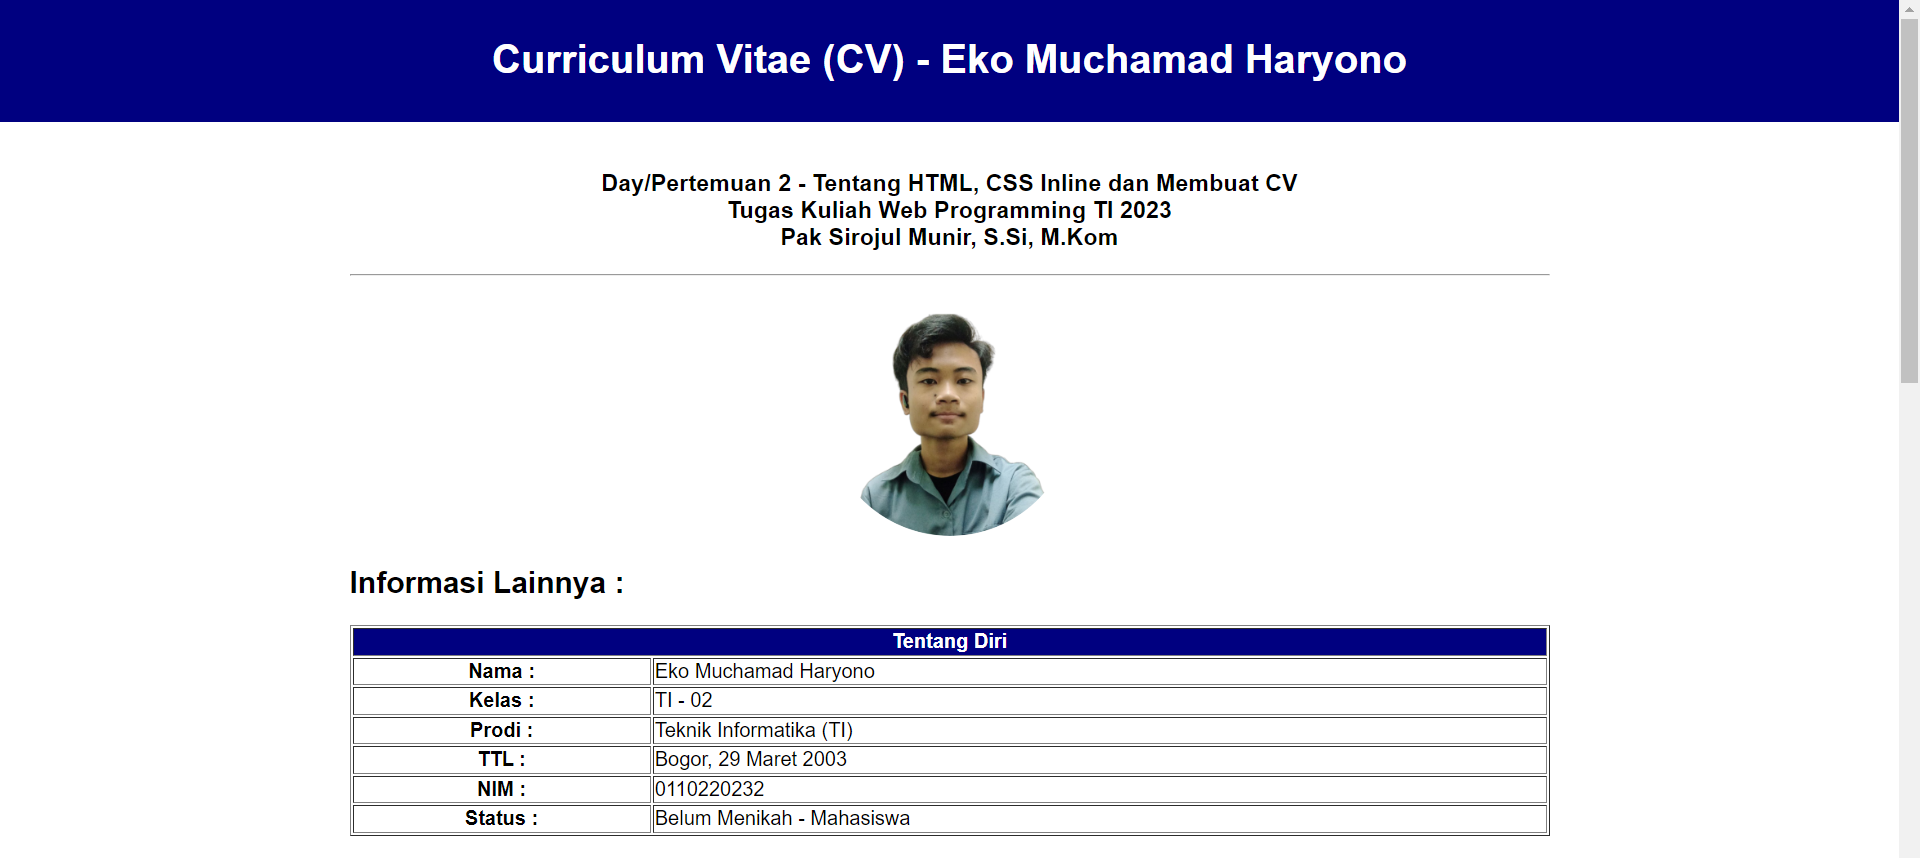
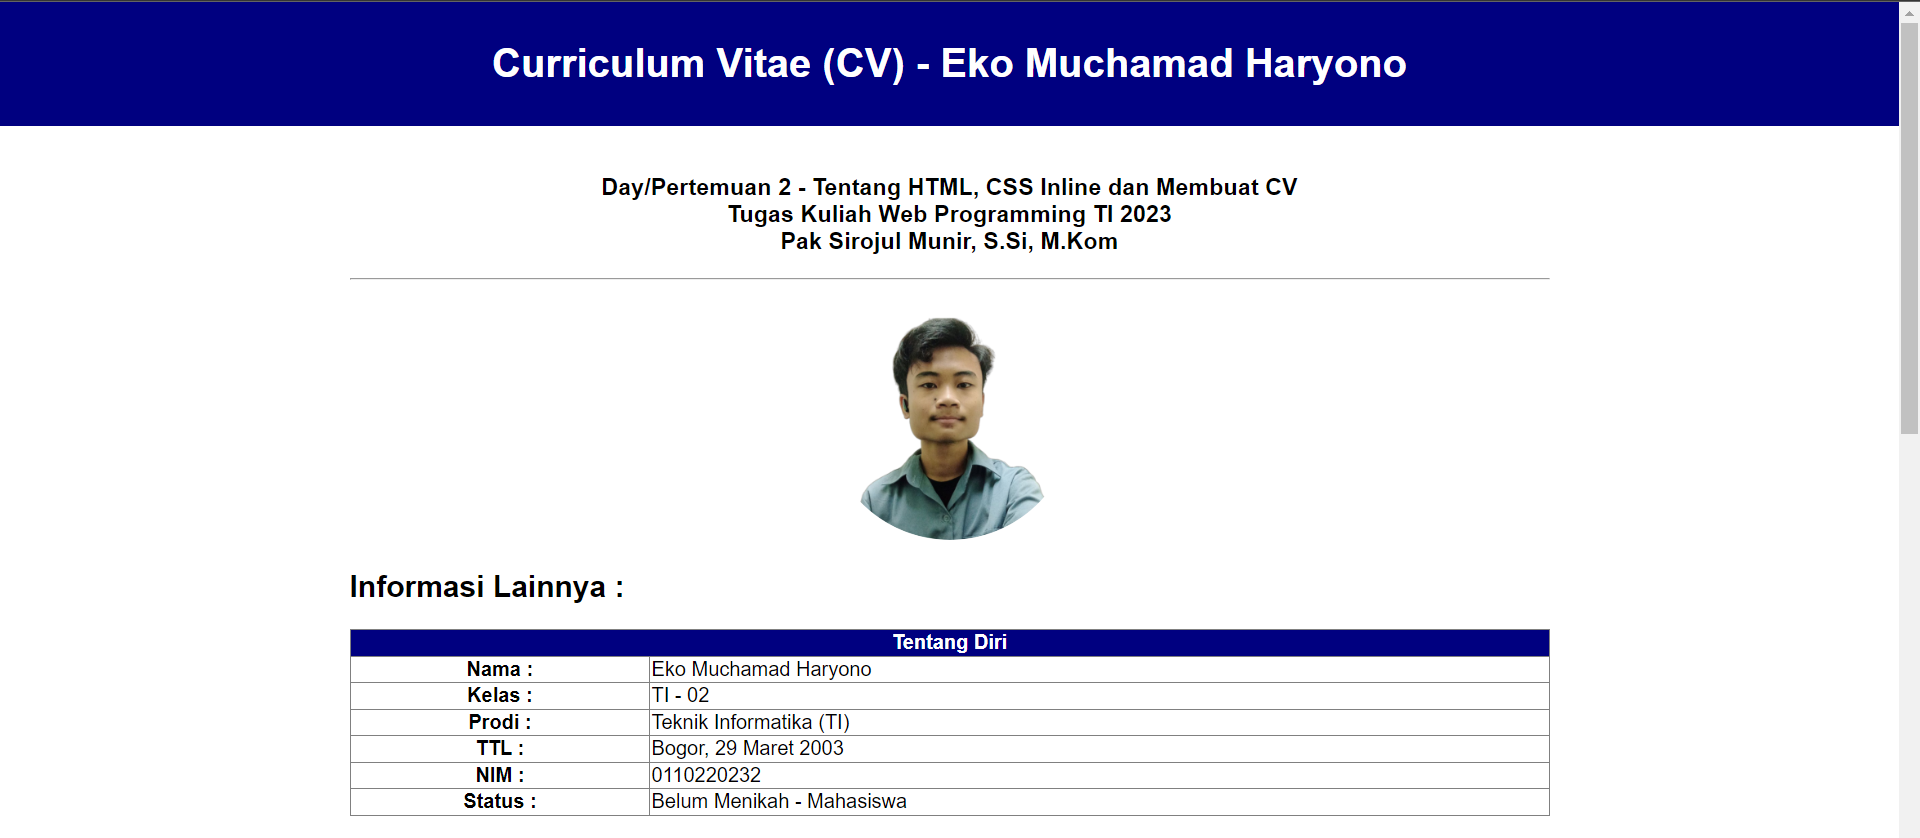
3.0. upload tugas praktikum_03, form pizza dan form produk dan readme.md

diff --git a/Praktikum_03/form_produk/hasil-produk.html b/Praktikum_03/form_produk/hasil-produk.html
@@ -1,21 +1,23 @@
 <!DOCTYPE html>
 <html lang="en">
-<head>
-    <meta charset="UTF-8">
-    <meta name="viewport" content="width=device-width, initial-scale=1.0">
-    <title>Hasil Pemesanan Barang - Eko Muchamad Haryono</title>
-</head>
-<body>
-    <div style="background-color: #333; overflow: hidden;">
-        <a href="#" style="float: left; display: block; color: white; text-align: center; padding: 14px 16px; text-decoration: none;">Home</a>
-        <a href="#" style="float: left; display: block; color: white; text-align: center; padding: 14px 16px; text-decoration: none;">Generate Link</a>
-        <a href="#" style="float: left; display: block; color: white; text-align: center; padding: 14px 16px; text-decoration: none;">Transaction History</a>
-        <a href="#" style="float: left; display: block; color: white; text-align: center; padding: 14px 16px; text-decoration: none;">Policy</a>
-        <a href="#" style="float: left; display: block; color: white; text-align: center; padding: 14px 16px; text-decoration: none;">Logout</a>
-    </div>
+    <head>
+        <meta charset="UTF-8">
+        <meta name="viewport" content="width=device-width, initial-scale=1.0">
+        <title>Hasil Pemesanan Barang - Eko Muchamad Haryono</title>
+    </head>
+    <body>
+        <div style="background-color: #333; overflow: hidden;">
+            <a href="#" style="float: left; display: block; color: white; text-align: center; padding: 14px 16px; text-decoration: none;">Home</a>
+            <a href="#" style="float: left; display: block; color: white; text-align: center; padding: 14px 16px; text-decoration: none;">Generate Link</a>
+            <a href="#" style="float: left; display: block; color: white; text-align: center; padding: 14px 16px; text-decoration: none;">Transaction History</a>
+            <a href="#" style="float: left; display: block; color: white; text-align: center; padding: 14px 16px; text-decoration: none;">Policy</a>
+            <a href="#" style="float: left; display: block; color: white; text-align: center; padding: 14px 16px; text-decoration: none;">Logout</a>
+        </div>
 
-    <div style="padding: 20px;">
-        
-    </div>
-</body>
+        <div style="padding: 20px;">
+            
+        </div>
+
+    </body>
+    
 </html>

diff --git a/Praktikum_03/form_pizza/hasil-pizza.html b/Praktikum_03/form_pizza/hasil-pizza.html
@@ -12,17 +12,12 @@
     <meta name="viewport" content="width=device-width, initial-scale=1.0">
     <title>Hasil Pizza</title>
 </head>
-<body style="background-color: #faf3e3;">
+<body style="background-color: #faf3e3; color: black; font-family: Arial;">
     <h1 align="center">THANK YOU</h1>
-    <hr>
+    <hr  style="border:1.5px solid #5499ff;">
     <p>Thank you for ordering from Black Goose Bistro. We have received the following information about your order:</p>
-    <table>
-        <thead>
-            <tr>
-                <th colspan="2" style="color: #bc7261";>Your Information</th>
-            </tr>
-        </thead>
-        <tbody>
+    <table style="margin-left: 50px;">
+        <h3 style="color: #bc7261; margin-right: 50px;">Your Information</h3>
             <tr>
                 <td><b>Name</b></td>
                 <td>: Jennifer Robbins</td>
@@ -39,16 +34,10 @@
                 <td><b>Email</b></td>
                 <td>: jen@gmail.com</td>
             </tr>
-        </tbody>
     </table>
     <p><b>Delivery Instructions:</b> Ring the middle buzzer, if nobody answers, text me.</p>
-    <table>
-        <thead>
-            <tr>
-                <th colspan="2" style="color: #bc7261";>Your Information</th>
-            </tr>
-        </thead>
-        <tbody>
+    <table style="margin-left: 50px;">
+            <h3 style="color: #bc7261;">Your Information</h3>
             <tr>
                 <td><b>Crust</b></td>
                 <td>: White</td>
@@ -63,7 +52,7 @@
             </tr>
         </tbody>
     </table>
-    <hr>
+    <hr style="border:1.5px solid #bc7261;"">
     <p>This site is for educational purposes only. No pizzas will be delivered.</p>
 </body>
 </html>

diff --git a/Praktikum_03/form_pizza/form-pizza.html b/Praktikum_03/form_pizza/form-pizza.html
@@ -10,7 +10,7 @@
     <meta charset="UTF-8">
     <meta http-equiv="X-UA-Compatible" content="IE=edge">
     <meta name="viewport" content="width=device-width, initial-scale=1.0">
-    <title>Form Pemesanan Pizza</title>
+    <title>Form Pizza</title>
 </head>
 <body>
     <h1>Black Goose Bistro | Pizza-on-Demand</h1>
@@ -106,7 +106,7 @@
                 
                 <h4>Number</h4>
                 <label for="count">How many Pizzas: </label>
-                <input type="number" id="count" style="width: 3s5px;">
+                <input type="number" id="count" style="width: 35px;">
                     <br>
                     <br>
                 <button type="submit">Bring me a Pizza!</button>

diff --git a/readme.md b/readme.md
@@ -26,17 +26,17 @@ Lokasi Praktikum 02 = Directory Repo =<a href="https://github.com/ekomh170/Tugas
 <b>2. Nama Folder : Praktikum_03 - (Masih Dalam Proses Pengerjaan)</b>
 
 Lokasi Praktikum 03 = Directory Repo =<a href="https://github.com/ekomh170/Tugas_Praktikum_Web_PW1/tree/ry_dev/Praktikum_03">Praktikum_03/</a>
-   - Form Pemesanan Barang dan Hasil Pemesanan Barang/Form dan Hasil Produk (Tugas Utama) = Proses
+   - Form Pemesanan Barang dan Hasil Pemesanan Barang/Produk (Tugas Utama) = Proses =  Lokasi = <a href="https://github.com/ekomh170/Tugas_Praktikum_Web_PW1/tree/ry_dev/Praktikum_03/form_produk">Praktikum_03/form_produk/</a>
       
       1. Form : 
       2. Hasil : 
 
-   - Form Pizza (Sub Tugas) = Proses
+   - Form Pizza (Sub Tugas) = Proses = Lokasi = <a href="https://github.com/ekomh170/Tugas_Praktikum_Web_PW1/tree/ry_dev/Praktikum_03/form_pizza">Praktikum_03/form_pizza/</a>
    
       1. Form :
       2. Hasil :
 
-   - Form (Sub Tugas) = Proses
+   - Form (Sub Tugas) = Proses = Lokasi = Lokasi = <a href="https://github.com/ekomh170/Tugas_Praktikum_Web_PW1/tree/ry_dev/Praktikum_03/form">Praktikum_03/form/</a>
 
       1. Form :
       2. Hasil :
